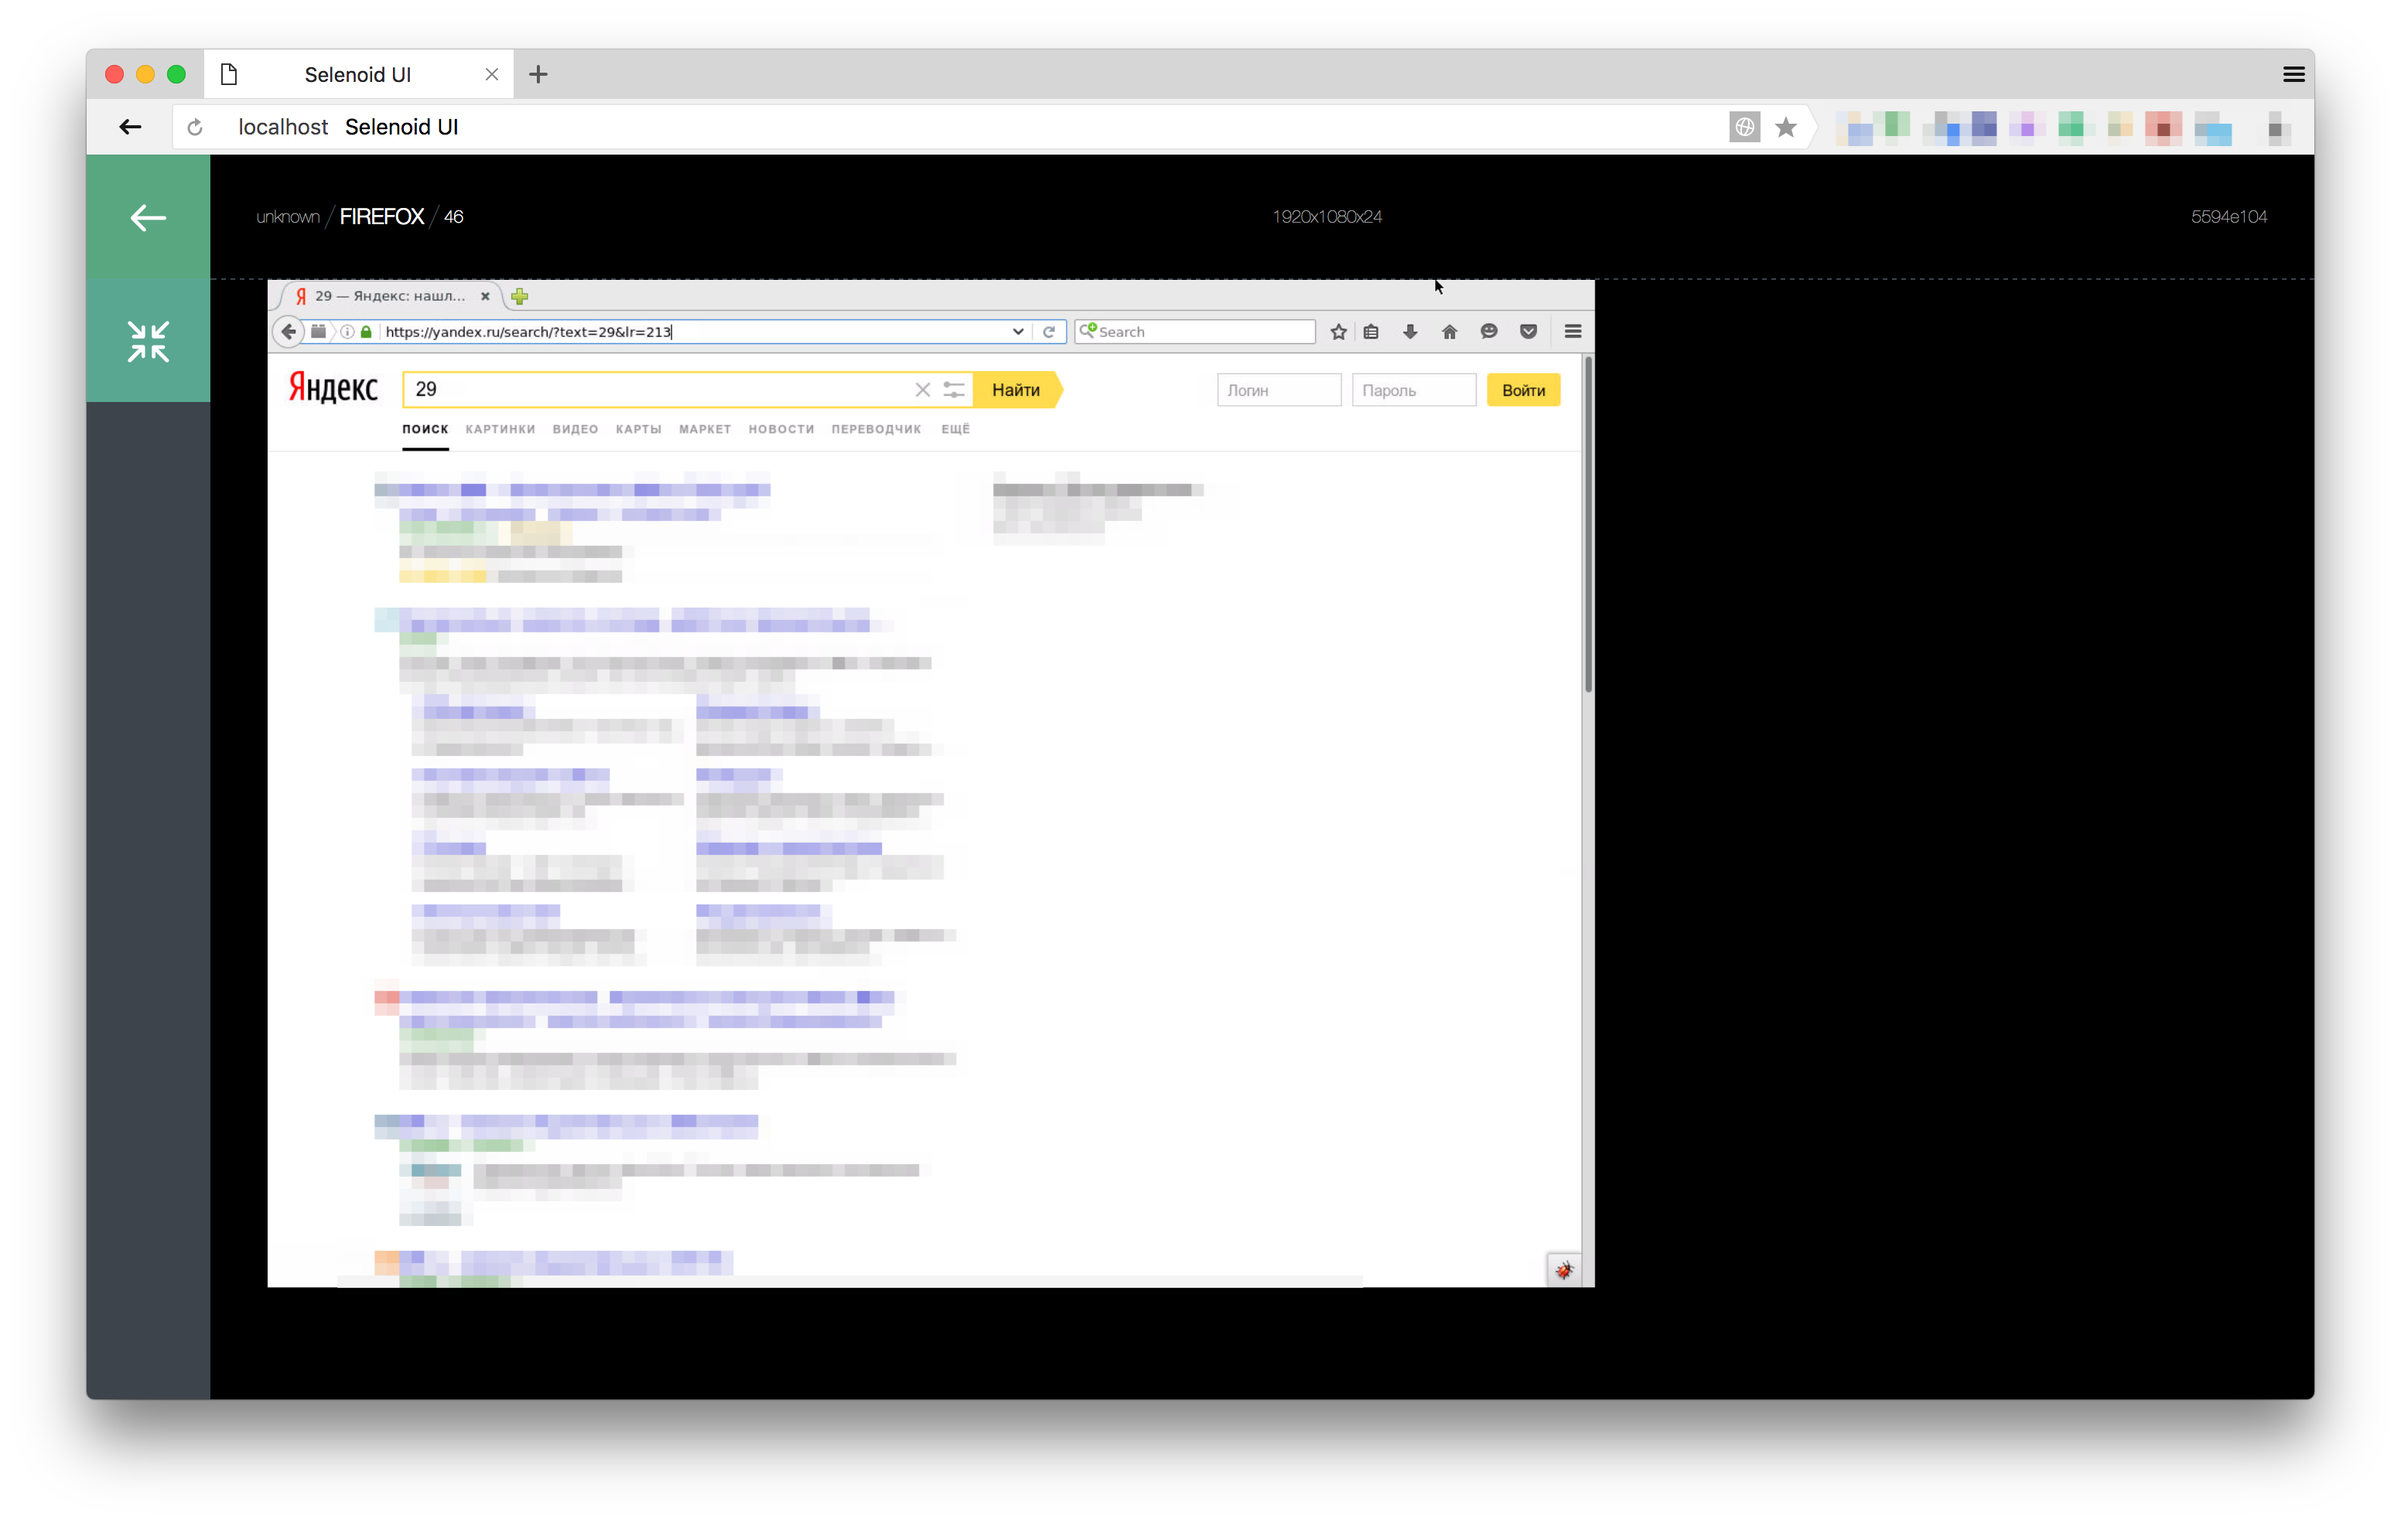
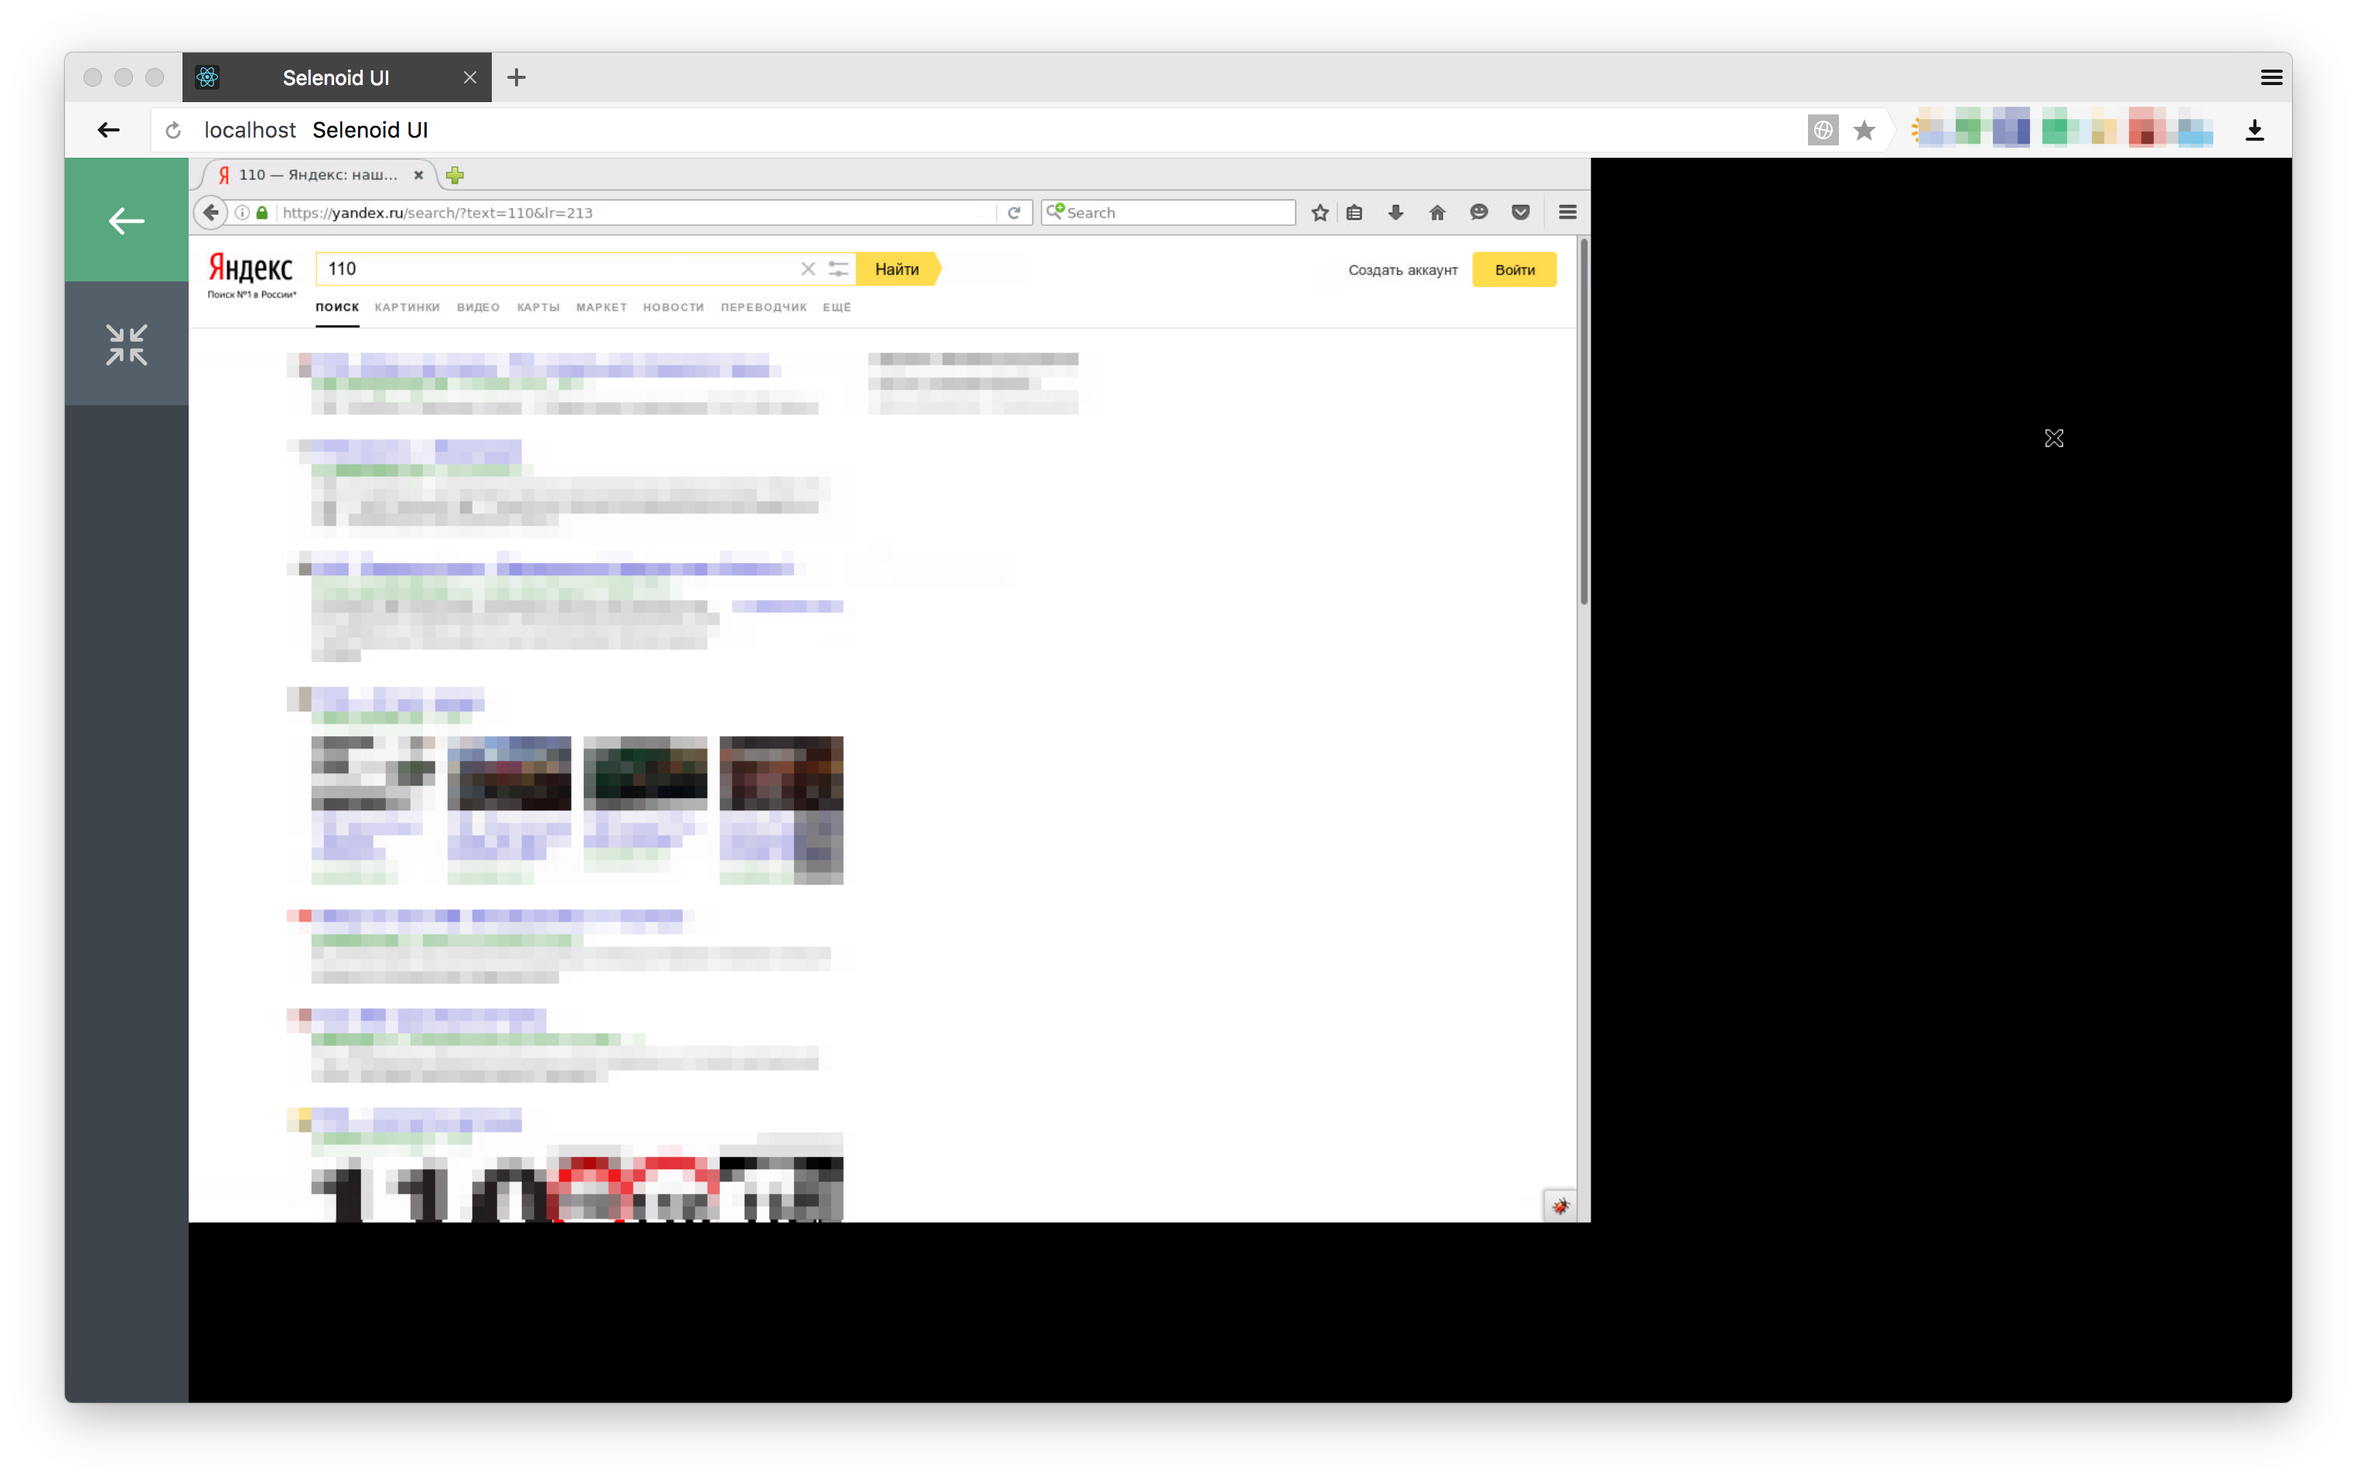
Update docs

Changed region(s): [[0.0, 0.0308, 0.9974, 0.9556], [0.4052, 0.3083, 0.4987, 0.3699]]

diff --git a/web/src/components/Sessions/style.scss b/web/src/components/Sessions/style.scss
@@ -74,6 +74,7 @@ $color-session-name: #555f6a;
         background-color: $color-accent;
         padding: 0 10px;
         line-height: 22px;
+        width: 43px;
       }
     }
   }

diff --git a/README.md b/README.md
@@ -8,7 +8,7 @@ Simple status page with UI updates by SSE,
 backed by constant polling of status handle
 of [selenoid](https://github.com/aerokube/selenoid) on small go backend.
 
-![ui](docs/img/ui.png)
+![ui](docs/img/stats.png)
 
 ## Usage
 
